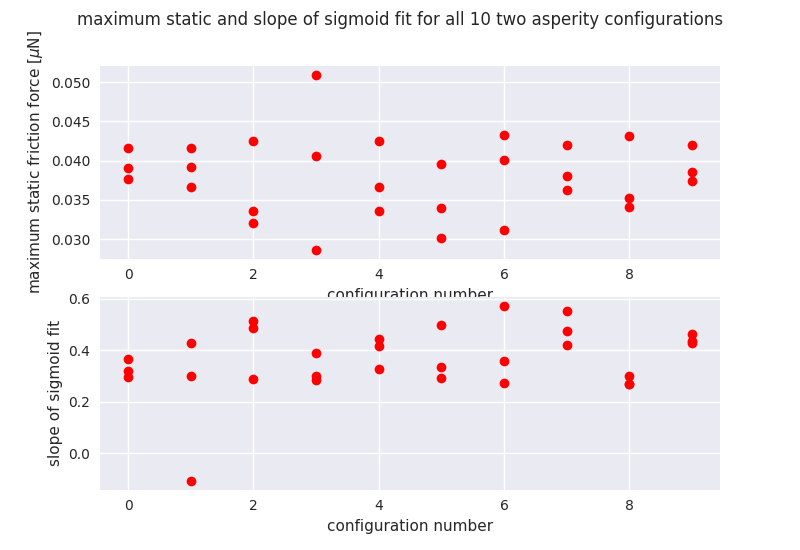
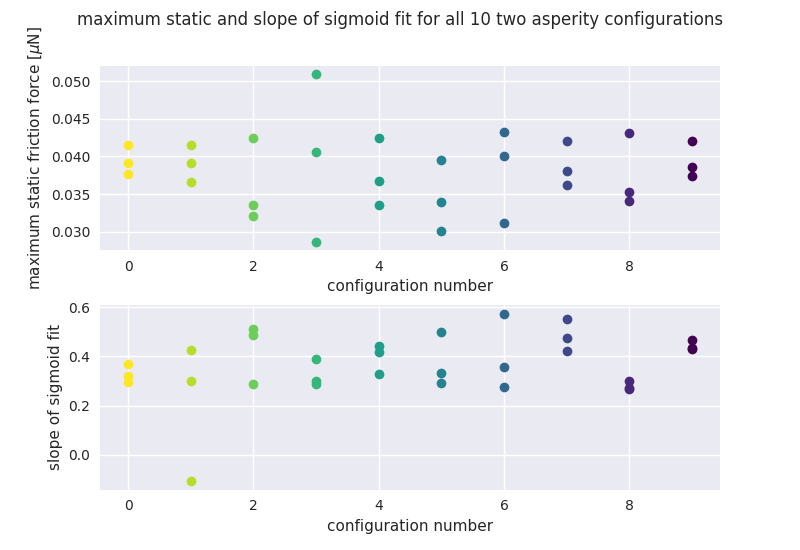
chagned colour of figures, also added spacing

diff --git a/python/plot/plot_load_curves.py b/python/plot/plot_load_curves.py
@@ -572,6 +572,7 @@ def plot_production():
     man_init_strange = {0: '[[0,1,1,0][0,1,1,0][0,1,1,0][0,1,1,0]]', 1: '[[0,0,0,0][1,1,1,1][1,1,1,1][0,0,0,0]]',
                         2: '[[0,1,0,0][1,1,1,0][1,1,1,0][0,1,0,0]]', 3: '[[1,0,1,0][0,1,0,1][1,0,1,0][0,1,0,1]]'}
     strange = True
+    c = plt.cm.viridis((9 - np.arange(10))/(9 - 0 + 0.01))
     for i, (initnum, seeds) in enumerate(initseed.items()):
         if production:
             load_curves_all, load_curves_mean= load_load_curves(temp, vel, force, asperities, orientation,
@@ -614,7 +615,7 @@ def plot_production():
         #print('ms all, ms mean ', ms_all, ms_mean) 
         #print('load curves', np.shape(load_curves_all), np.shape(load_curves_mean))
         for j, load_curve in enumerate(load_curves_all):
-            axs[i].plot(load_curve[:,0], load_curve[:,1], label = f'rise: {rise_all[j]:.4e}')
+            axs[i].plot(load_curve[:,0], load_curve[:,1], c = c[i], label = f'rise: {rise_all[j]:.4e}')
             axs[i].legend()
             fit_sigmoid(load_curve, fig, axs[i])
 
@@ -622,9 +623,9 @@ def plot_production():
 
         for ms in ms_all:
            axs[i].plot(ms[0], ms[1], 'o') #this is just proprietary
-           axs2[0].plot(i, ms[1], 'ro')
+           axs2[0].plot(i, ms[1], 'ro', c=c[i])
         for slope in rise_all:
-            axs2[1].plot(i, slope, 'ro')
+            axs2[1].plot(i, slope, 'ro', c = c[i])
 
         axs[i].set_xlabel(r"$t_p$ [ns]")
         axs[i].set_ylabel(r"$f$ [$\mu$N]")
@@ -658,6 +659,7 @@ def plot_production():
     fig.legend()
     fig.savefig(fig_dir + f'production_varying_initnum_temp{temp}_vel{vel}_force{force}_asp{asperities}_or{orientation}_time{time}.png')
     fig2.suptitle(f'maximum static and slope of sigmoid fit for all 10 two asperity configurations')
+    fig2.subplots_adjust(hspace=0.3)
     fig2.legend()
     fig2.savefig(fig_dir + f'production_varying_initnum_temp{temp}_vel{vel}_force{force}_asp{asperities}_or{orientation}_time{time}_maxstatic_rise.png')
 
